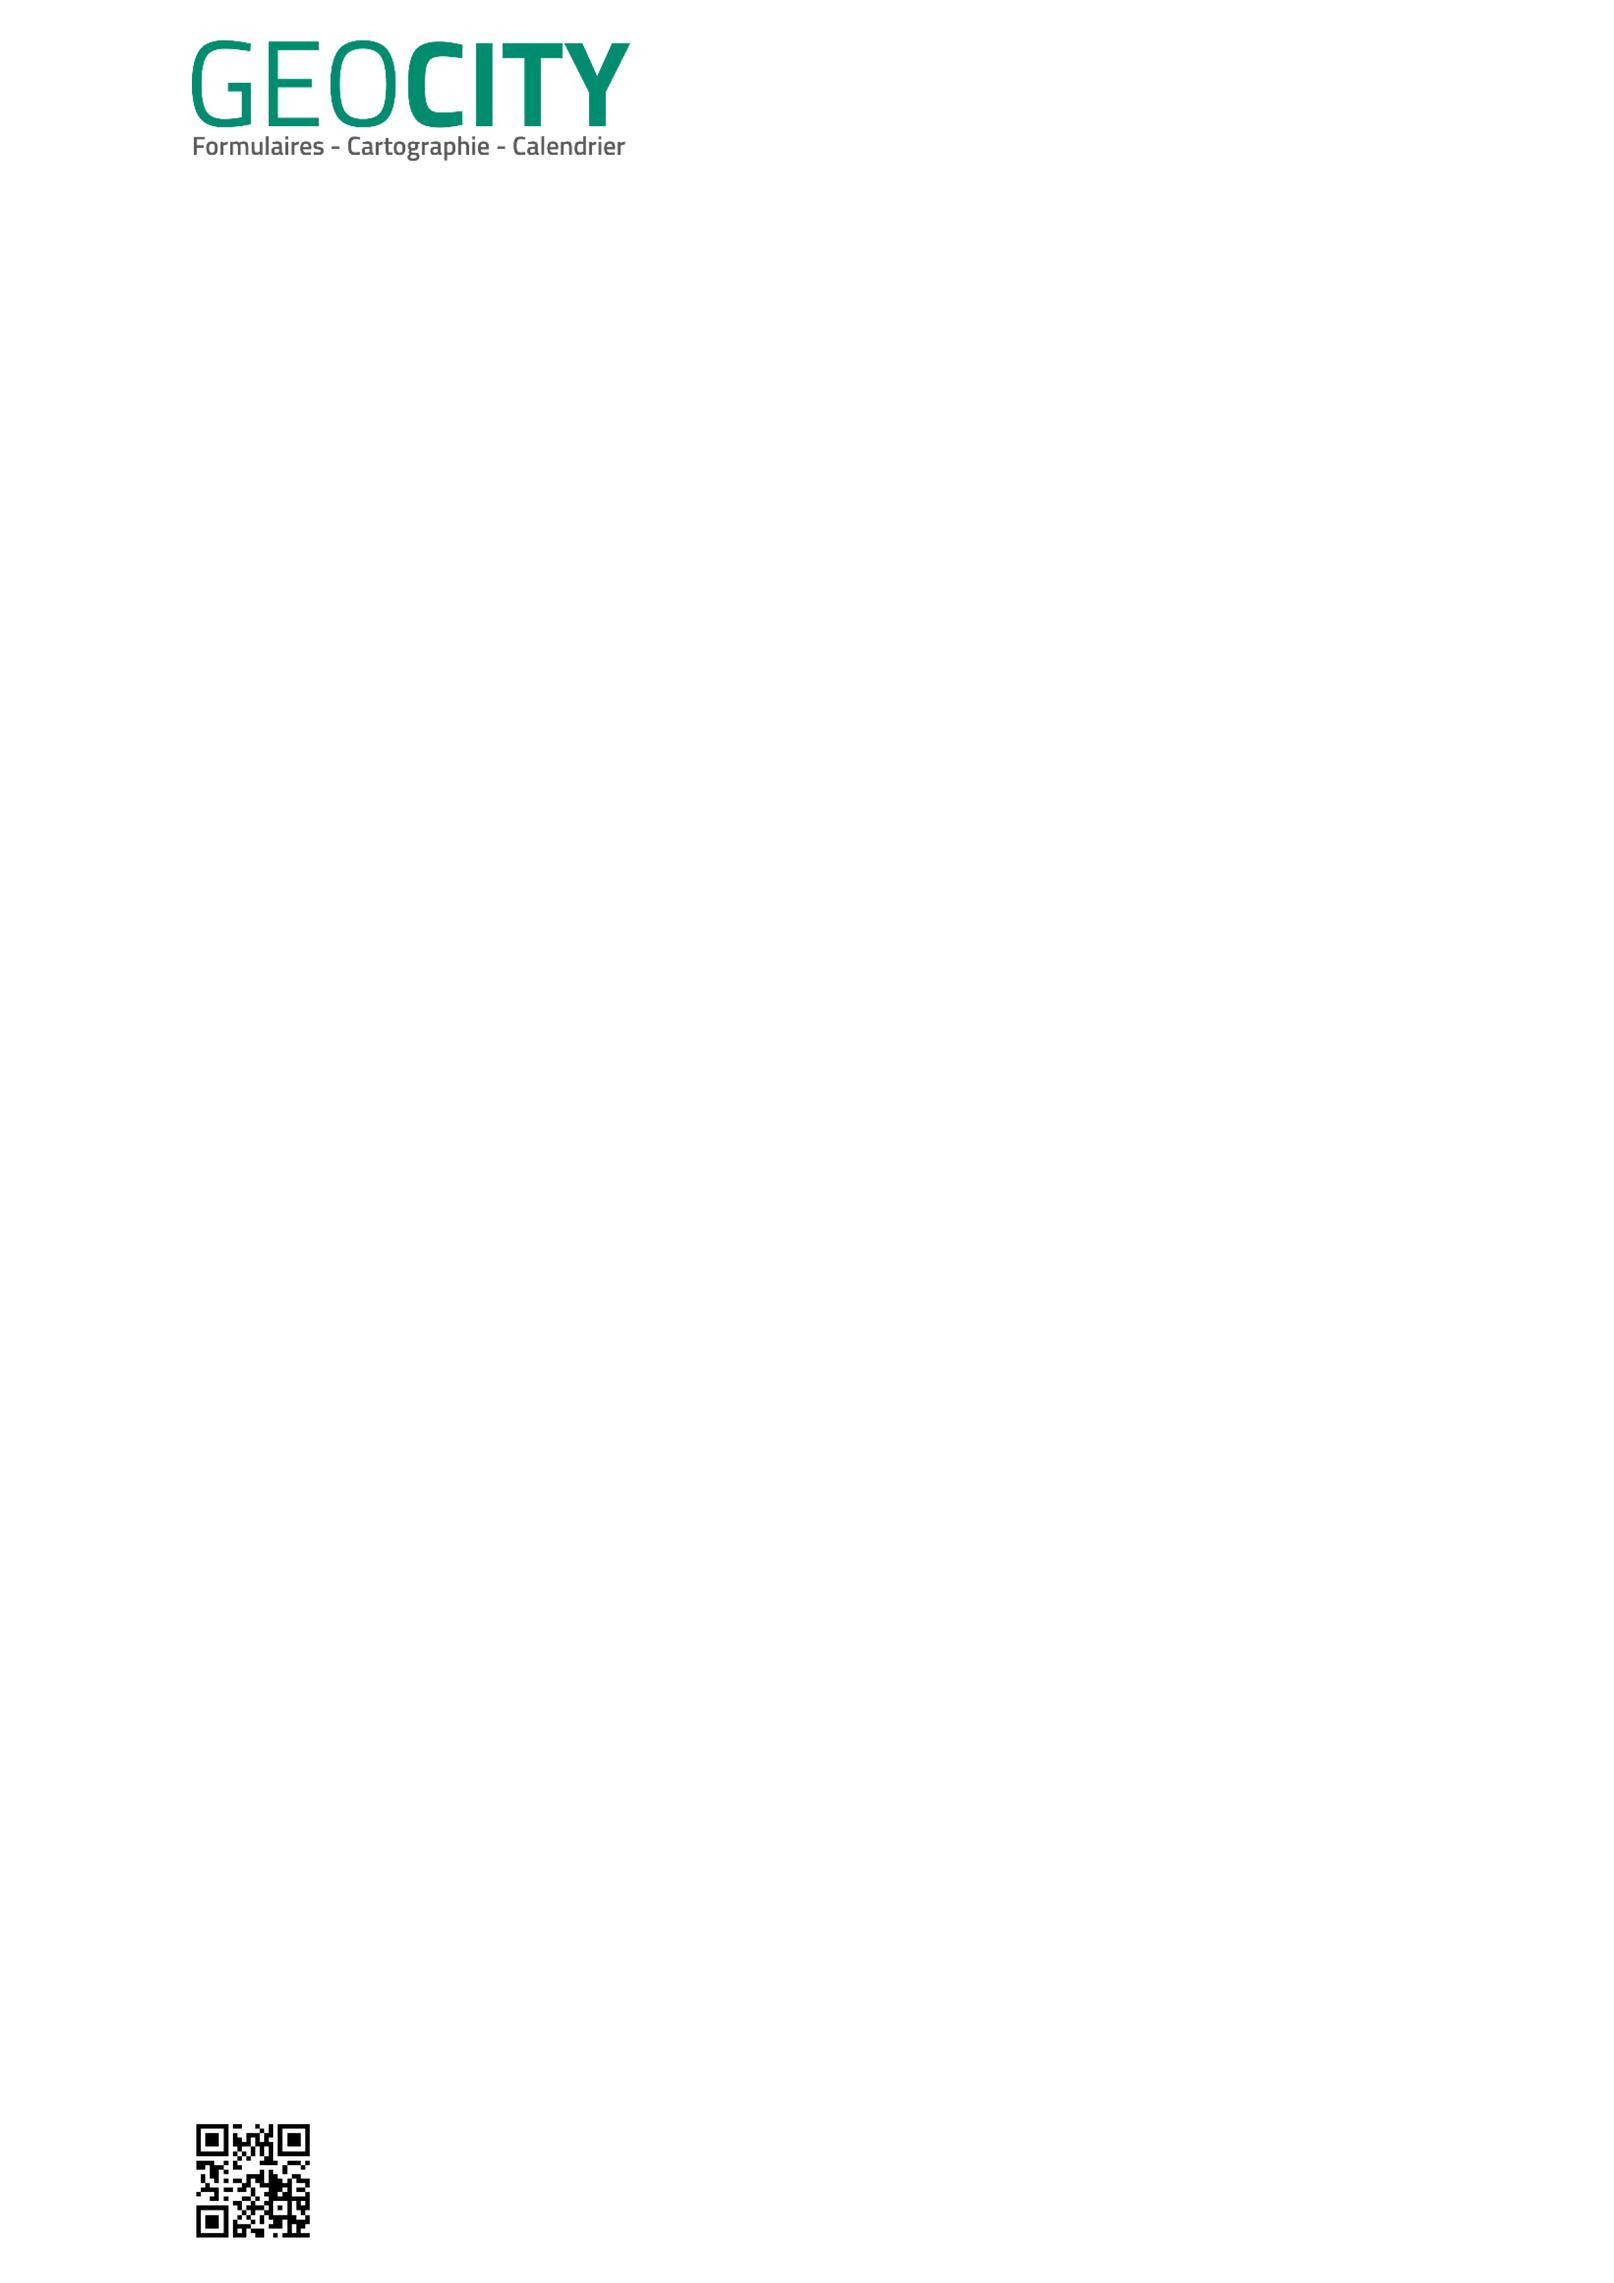
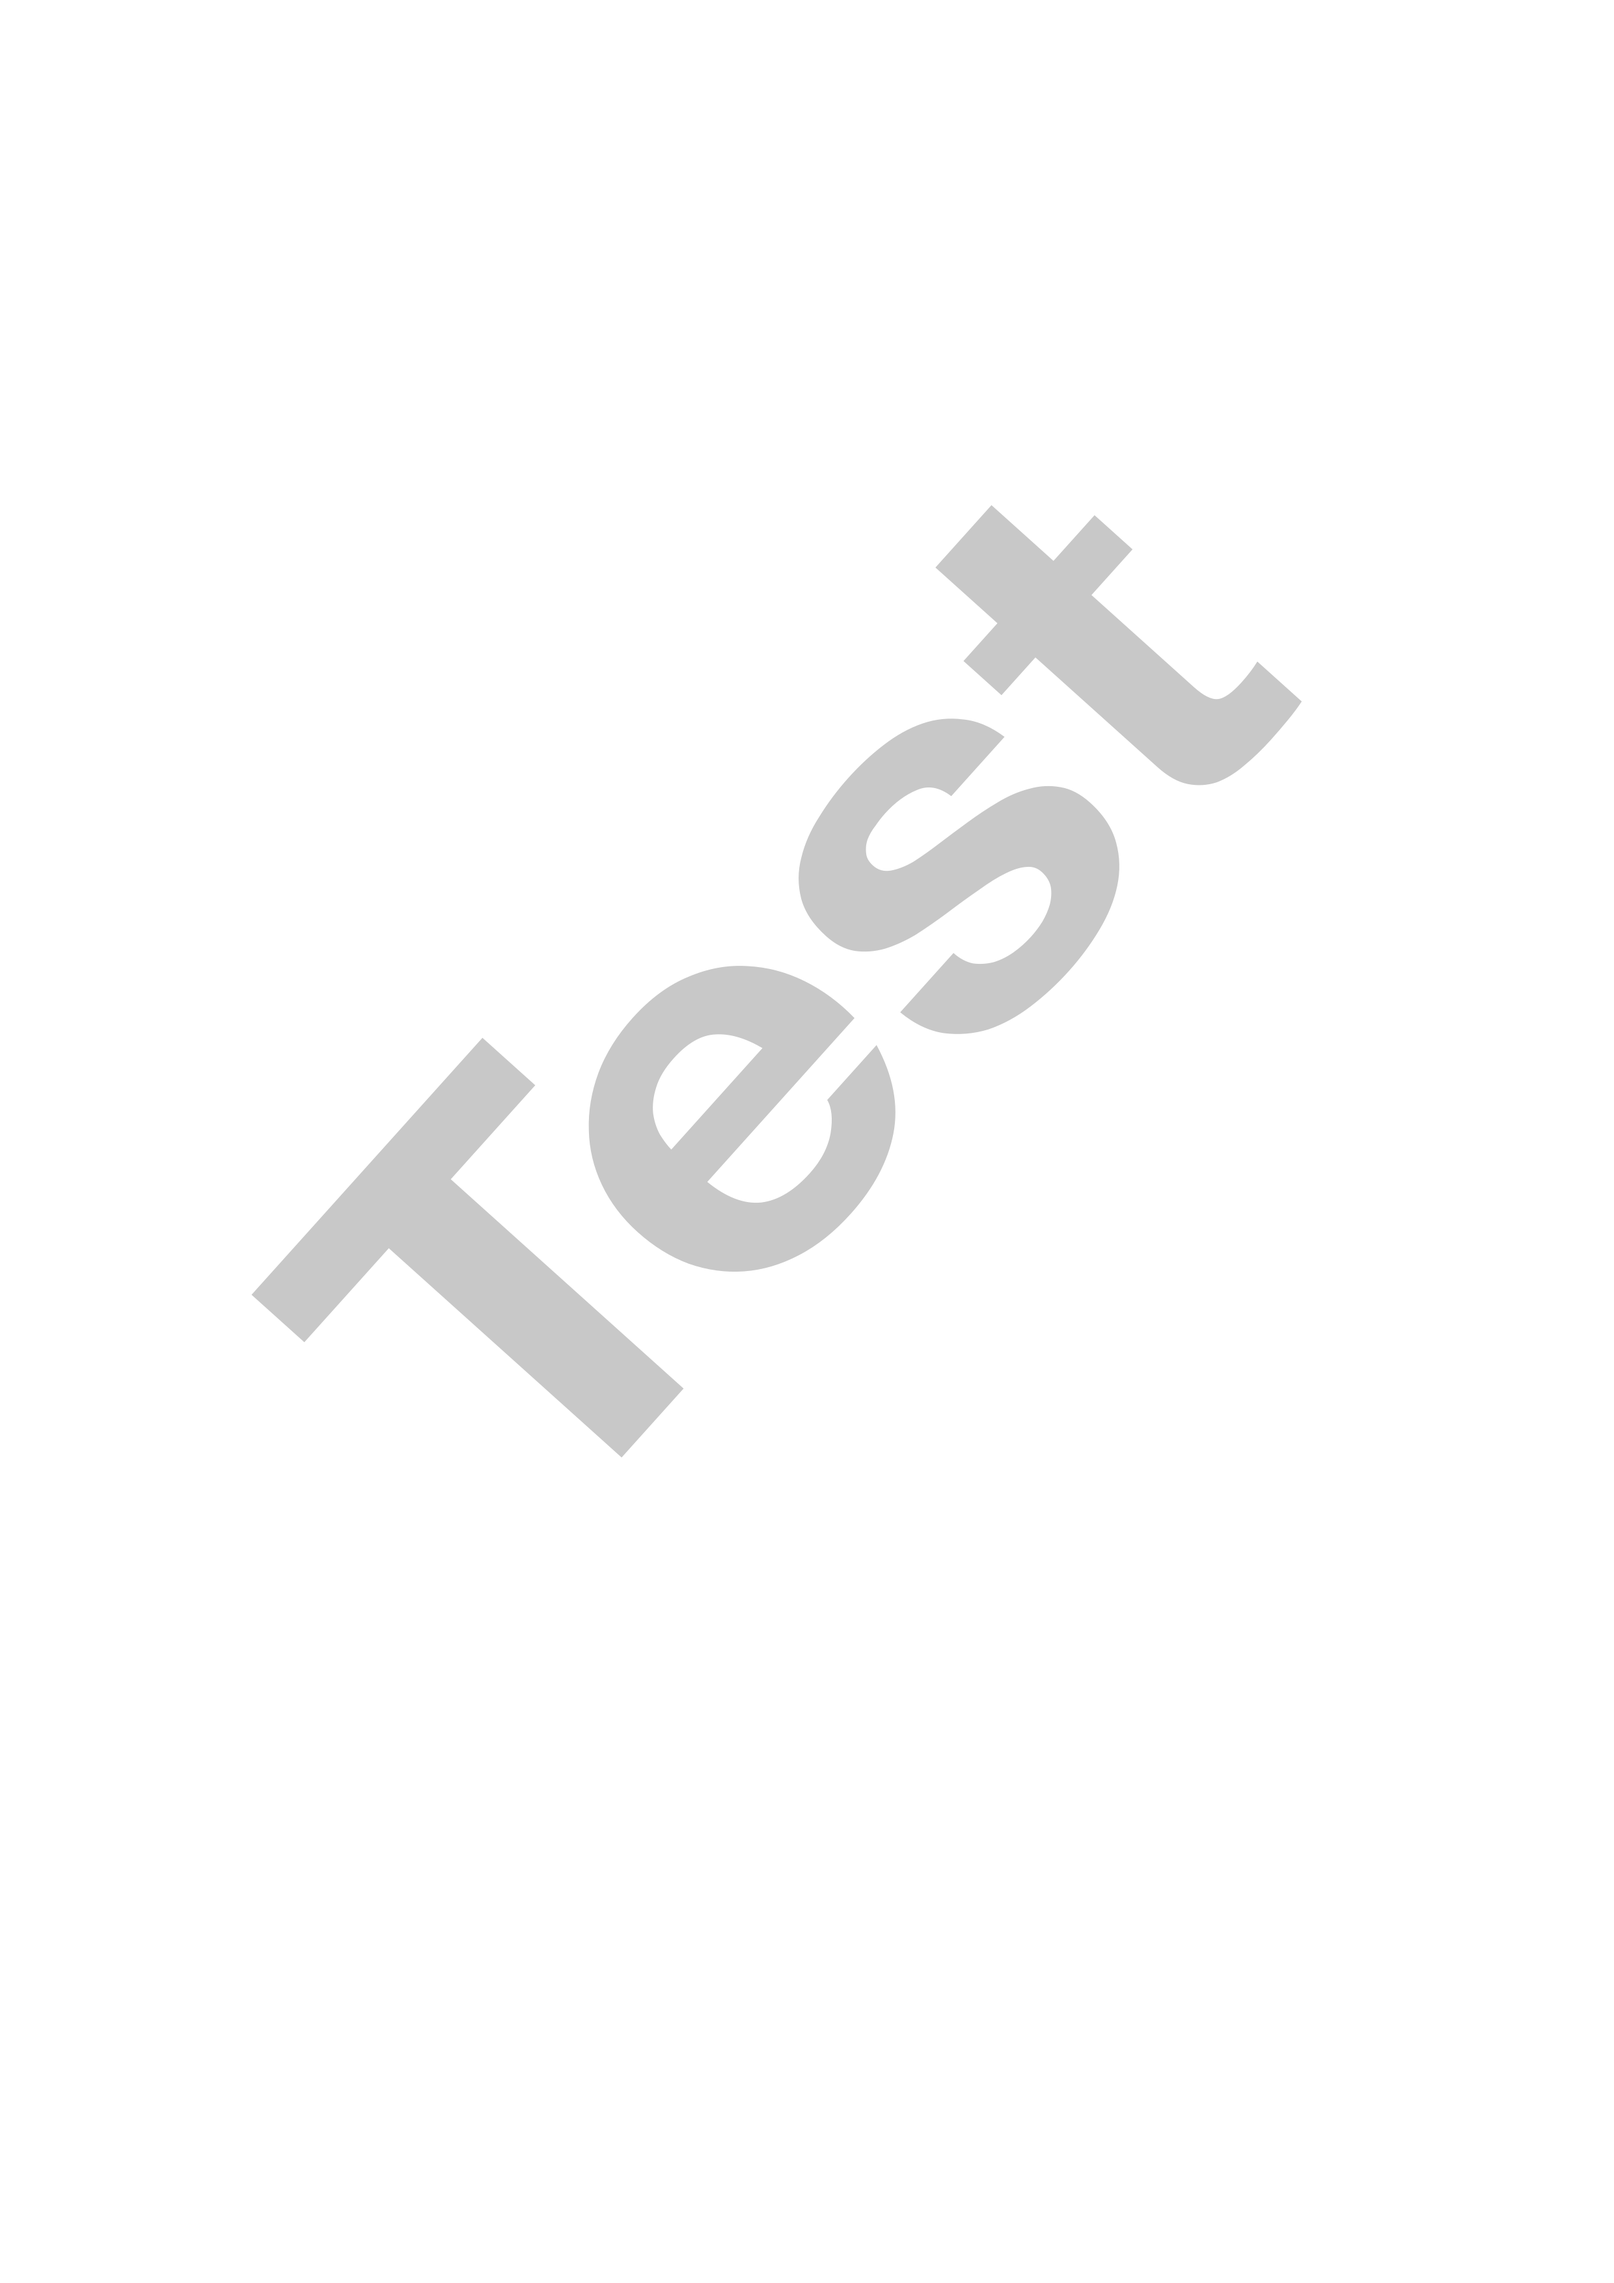
wip

Changed region(s): [[0.1552, 0.2175, 0.8073, 0.6525], [0.0931, 0.0, 0.4036, 0.0932], [0.1242, 0.9322, 0.2173, 0.9943]]

diff --git a/geocity/tests/reports/test_reports.py b/geocity/tests/reports/test_reports.py
@@ -1,14 +1,21 @@
+from django.contrib.staticfiles import finders
 from django.urls import reverse
 
 from geocity.apps.reports.models import (
+    HeaderFooterDateTime,
+    HeaderFooterLogo,
+    HeaderFooterPageNumber,
+    HeaderFooterParagraph,
     SectionAmendProperty,
     SectionAuthor,
     SectionContact,
+    SectionCreditor,
     SectionDetail,
     SectionHorizontalRule,
     SectionMap,
     SectionParagraph,
     SectionPlanning,
+    SectionRecipient,
     SectionStatus,
     SectionValidation,
 )
@@ -89,30 +96,221 @@ class ReportsTests(ReportsTestsBase):
 
         # Add one block of each type
         sections_config = {
-            SectionMap: {},
-            SectionParagraph: {
-                "title": "A basic paragraph",
-                "content": "<p>A paragraph <u>with</u> <b style='color: red;'>basic</b> <i>styling</i></p>",
+            1: {
+                SectionMap: {
+                    # "padding_top": int,
+                    # "is_new_page": bool,
+                    "title": "Section map",
+                    "title_size": "h1",
+                }
             },
-            SectionContact: {},
-            SectionAuthor: {},
-            SectionDetail: {},
-            SectionPlanning: {},
-            SectionValidation: {},
-            SectionAmendProperty: {},
-            SectionStatus: {},
+            2: {
+                SectionParagraph: {
+                    # "padding_top": int,
+                    "is_new_page": True,
+                    "title": "Section paragraph 2",
+                    "title_size": "h3",
+                    "text_align": "left",
+                    "location": "left",
+                    "content": """
+                    <p>This paragraph has a title h3, is aligned to the left and is located on the left of the page</p>
+                    <p>A paragraph <u>with</u> <b style='color: red;'>basic</b> <i>styling</i></p>
+                    """,
+                }
+            },
+            3: {
+                SectionParagraph: {
+                    "padding_top": 10,
+                    "is_new_page": False,
+                    "title": "Section paragraph 2",
+                    "title_size": "h4",
+                    "text_align": "right",
+                    "location": "right",
+                    "content": """
+                    <p>This paragraph has a title h4, has a padding top of 10px, is aligned to the right and is located on the right of the page</p>
+                    <p>A paragraph <u>with</u> <b style='color: red;'>basic</b> <i>styling</i></p>
+                    """,
+                }
+            },
+            4: {
+                SectionParagraph: {
+                    "padding_top": 20,
+                    "is_new_page": False,
+                    "title": "Section paragraph 3",
+                    "title_size": "h5",
+                    "text_align": "center",
+                    "location": "content",
+                    "content": """
+                    <p>This paragraph has a title h5, has a padding top of 20px, is aligned to the center and is located on the center (content) of the page</p>
+                    <p>A paragraph <u>with</u> <b style='color: red;'>basic</b> <i>styling</i></p>
+                    """,
+                }
+            },
+            5: {
+                SectionParagraph: {
+                    "padding_top": 30,
+                    "is_new_page": False,
+                    "title": "Section paragraph 4",
+                    "title_size": "h6",
+                    "text_align": "justify",
+                    "location": "content",
+                    "content": """
+                    <p>This paragraph has a title h6, has a padding top of 30px, text is justify and is located on the center (content) of the page</p>
+                    <p>A paragraph <u>with</u> <b style='color: red;'>basic</b> <i>styling</i></p>
+                    """,
+                }
+            },
+            5: {
+                SectionContact: {
+                    # "padding_top": int,
+                    "is_new_page": True,
+                    "title": "Section contact",
+                    "title_size": "h2",
+                }
+            },
+            6: {
+                SectionAuthor: {
+                    # "padding_top": int,
+                    # "is_new_page": bool,
+                    "title": "Section author",
+                    "title_size": "h2",
+                }
+            },
+            7: {
+                SectionDetail: {
+                    "padding_top": 20,
+                    # "is_new_page": bool,
+                    "title": "Section detail style 1 with form name",
+                    "title_size": "h3",
+                    "show_form_name": True,
+                    "style": 1,
+                    "line_height": 20,
+                    # "undesired_properties": char,
+                }
+            },
+            8: {
+                SectionDetail: {
+                    "padding_top": 20,
+                    # "is_new_page": bool,
+                    "title": "Section detail style 2 without form name",
+                    "title_size": "h3",
+                    "show_form_name": False,
+                    "style": 2,
+                    "line_height": 50,
+                    # "undesired_properties": char,
+                }
+            },
+            9: {
+                SectionPlanning: {
+                    # "padding_top": int,
+                    "is_new_page": True,
+                    "title": "Section planning",
+                    "title_size": "h3",
+                }
+            },
+            10: {
+                SectionValidation: {
+                    # "padding_top": int,
+                    # "is_new_page": bool,
+                    "title": "Section validation",
+                    "title_size": "h3",
+                }
+            },
+            11: {
+                SectionAmendProperty: {
+                    # "padding_top": int,
+                    # "is_new_page": bool,
+                    "title": "Section amend property",
+                    "title_size": "h3",
+                }
+            },
+            12: {
+                SectionStatus: {
+                    # "padding_top": int,
+                    # "is_new_page": bool,
+                    "title": "Section status",
+                    "title_size": "h3",
+                }
+            },
+            13: {
+                SectionCreditor: {
+                    # "padding_top": int,
+                    # "is_new_page": bool,
+                    "title": "Section creditor",
+                    "title_size": "h3",
+                }
+            },
+            14: {
+                SectionRecipient: {
+                    "padding_top": 20,
+                    # "is_new_page": bool,
+                    "is_recommended": True,
+                }
+            },
+            15: {
+                SectionRecipient: {
+                    "padding_top": 50,
+                    # "is_new_page": bool,
+                    "is_recommended": False,
+                }
+            },
         }
 
-        for i, (SectionClass, kwargs) in enumerate(sections_config.items()):
-            SectionClass.objects.create(
-                order=i * 10,
-                report=self.report,
-                **kwargs,
-            )
+        _logo_path = finders.find("reports/report-logo.png")
+        logo = open(_logo_path, "rb")
+
+        _qr_code_path = finders.find("reports/report-qr-code.png")
+        qr_code = open(_qr_code_path, "rb")
+
+        header_footers_config = {
+            1: {
+                HeaderFooterPageNumber: {
+                    # "page": int,
+                    # "location": char,
+                }
+            },
+            2: {
+                HeaderFooterDateTime: {
+                    # "page": int,
+                    # "location": char,
+                }
+            },
+            3: {
+                HeaderFooterParagraph: {
+                    # "page": int,
+                    # "location": char,
+                    # "text_align": char,
+                    # "content": char, # try multiline
+                }
+            },
+            4: {
+                HeaderFooterLogo: {
+                    # "page": int,
+                    # "location": char,
+                    # "logo": File(logo),
+                    # "logo_size": int,
+                }
+            },
+        }
+
+        for key, section_config in sections_config.items():
+            for SectionClass, kwargs in section_config.items():
+                SectionClass.objects.create(
+                    order=key * 10,
+                    report=self.report,
+                    **kwargs,
+                )
             SectionHorizontalRule.objects.create(
-                order=i * 10 + 1,
+                order=key * 10 + 1,
                 report=self.report,
             )
+
+        for key, header_footer_config in header_footers_config.items():
+            for HeaderFooterClass, kwargs in header_footer_config.items():
+                HeaderFooterClass.objects.create(
+                    report=self.report,
+                    **kwargs,
+                )
 
         # Get the PDF
         self.client.force_login(self.user)
